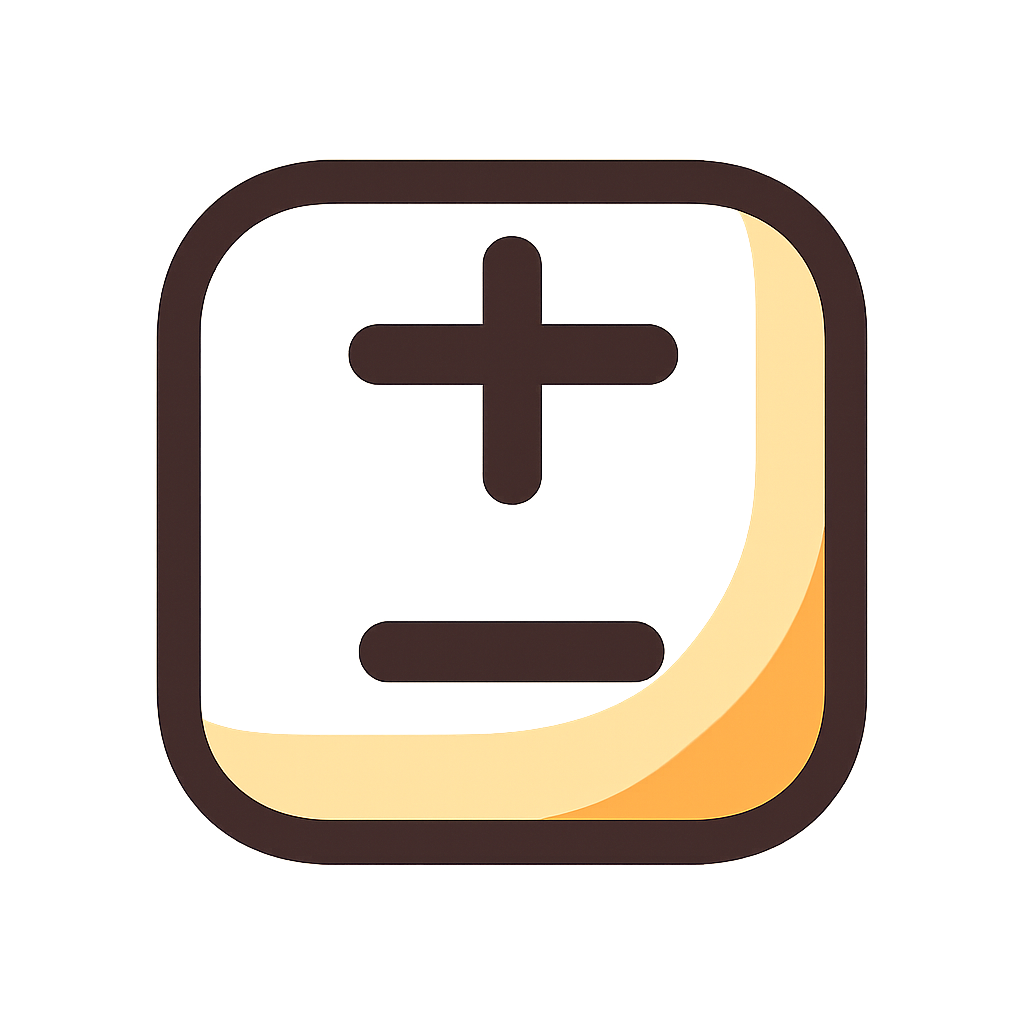
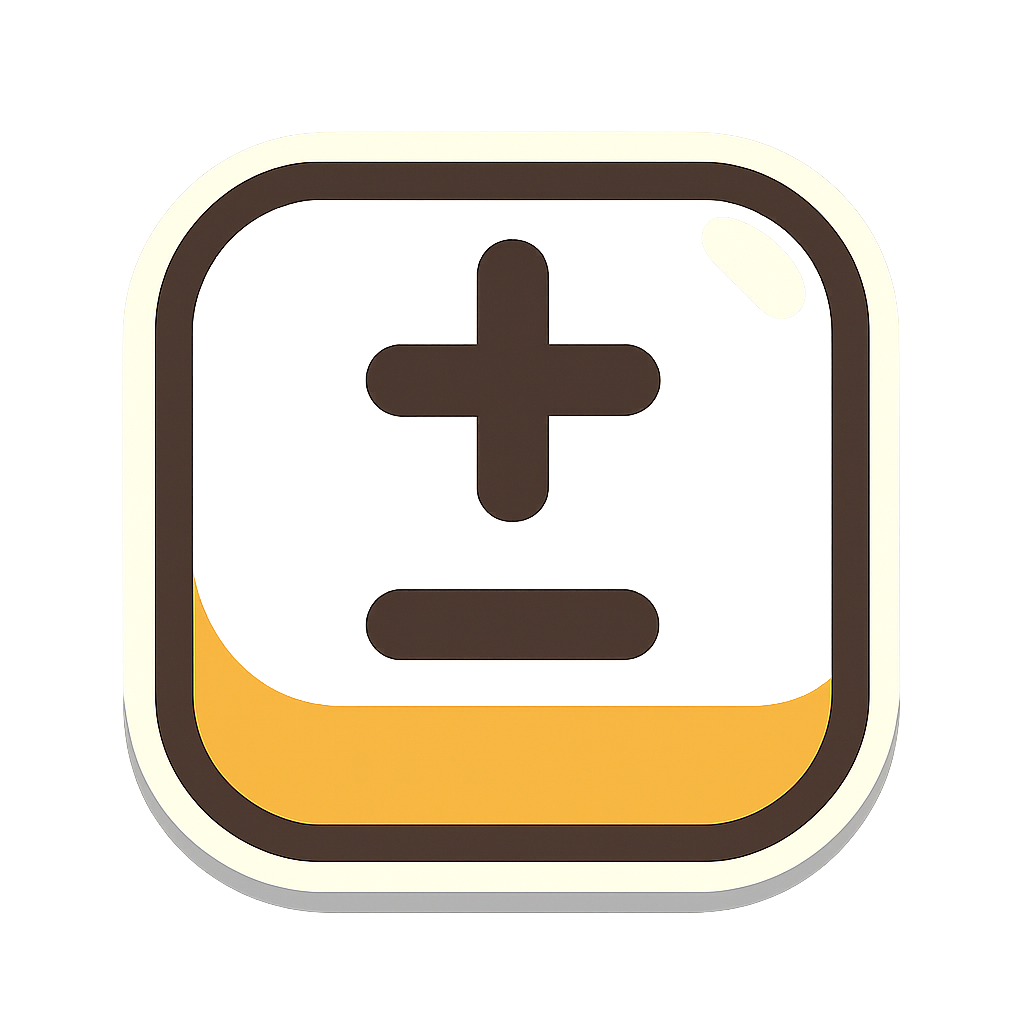
Ajuste com + simétrico, moeda pintada e o que faltava das cartas
- Ajuste: o traço tinha o + encostado na borda; agora + simétrico e −
  da mesma largura, no traço e na versão pintada.
- Moeda pintada (lisa, só aro e brilho) em todo <span class="moeda">, pela
  variável --moeda-img; sem ela fica o círculo dourado em CSS.
- Botões de carta da mesa usam o raio pintado no lugar do ⚡.
- A marca do Coringa nos dados e na corrente troca a estrela pelo chapéu
  de bobo em traço, como a carta.
- arte_icones.py: a borda de adesivo vira o campo "borda", que os itens de
  "sem_borda" (a moeda, pequena dentro de botões) não levam.

Claude-Session: https://claude.ai/code/session_014zYBtXiu9ctMemeSofycEH

diff --git a/dist/dice-duel.html b/dist/dice-duel.html
@@ -72,6 +72,8 @@ svg.ico { width: 18px; height: 18px; fill: none; stroke: currentColor; stroke-wi
 /* ícones pintados das cartas e símbolos (js/cartas_pintadas.js): mesmos lugares e tamanhos do traço */
 img.ico { width: 18px; height: 18px; flex: none; object-fit: contain; }
 .raio-pintado { width: 1.15em; height: 1.15em; vertical-align: -0.2em; }
+svg.ico.mini-ico { width: 1.25em; height: 1.25em; vertical-align: -0.25em; stroke-width: 2.2; }
+.moeda-pintada .moeda { background: var(--moeda-img) center / contain no-repeat; box-shadow: none; border-radius: 0; width: 1.15em; height: 1.15em; vertical-align: -0.2em; }
 .verso-pintado { width: 1.3em; height: 1.3em; vertical-align: -0.3em; margin: -2px 2px -2px -3px; }
 
 .app { max-width: 1240px; margin: 0 auto; padding: 12px 16px 28px; display: grid; gap: 12px; }
@@ -1371,12 +1373,13 @@ window.RETRATOS_PINTADOS = Object.assign(window.RETRATOS_PINTADOS || {}, {
   <script>
 /* gerado por tools/arte_icones.py a partir de arte/cartas.json: as versões pintadas (webp em data URI). Vazio = só vetor. */
 window.CARTAS_PINTADAS = Object.assign(window.CARTAS_PINTADAS || {}, {
[11 lines of base64/hex data omitted]
@@ -2115,7 +2118,7 @@ window.MOMENTOS_PINTADOS = Object.assign(window.MOMENTOS_PINTADOS || {}, {
     GRATIS, PRECO_CARTA, NIVEIS, PRESENTES, RATING_RIVAL, TETO_MOEDAS, BASE_MOEDAS, tituloDe, nivelDe, moedasDaVitoria } = R;
   const svg = d => `<svg class="ico" viewBox="0 0 24 24" aria-hidden="true">${d}</svg>`;
   const ICO_CARTA = {
-    ajuste: svg('<path d="M12 4v7M8.5 7.5h7M8.5 17h7"/><rect x="3" y="3" width="18" height="18" rx="4"/>'),
+    ajuste: svg('<path d="M12 5.5v6M9 8.5h6M9 16h6"/><rect x="3" y="3" width="18" height="18" rx="4"/>'),
     virar: svg('<path d="M4 12a8 8 0 0 1 14-5.3M20 12a8 8 0 0 1-14 5.3M18 3v4h-4M6 21v-4h4"/>'),
     rerrolar: svg('<path d="M3 12a9 9 0 1 0 3-6.7M3 4v4h4"/><circle cx="12" cy="12" r="1.5"/>'),
     pressa: svg('<path d="M5 6l6 6-6 6M13 6l6 6-6 6"/>'),
@@ -2133,6 +2136,10 @@ window.MOMENTOS_PINTADOS = Object.assign(window.MOMENTOS_PINTADOS || {}, {
   const imgPintada = (id, cls) => `<img class="${cls}" src="${pintada(id)}" alt="" aria-hidden="true" draggable="false">`;
   const RAIO = pintada('raio') ? imgPintada('raio', 'raio-pintado') : '⚡';
   const VERSO = pintada('verso') ? imgPintada('verso', 'verso-pintado') : '?';
+  // a marca do Coringa sobre o dado e na corrente: o chapéu de bobo em traço, do tamanho da letra
+  const CHAPEU = ICO_CARTA.coringa.replace('class="ico"', 'class="ico mini-ico"');
+  // a moeda pintada vale para todo <span class="moeda"> (o CSS usa a variável; sem ela, fica o círculo dourado)
+  if (pintada('moeda')) { document.documentElement.style.setProperty('--moeda-img', `url("${pintada('moeda')}")`); document.documentElement.classList.add('moeda-pintada'); }
   // os símbolos dos "Bons momentos" do fim da partida, pintados (js/momentos_pintados.js) quando existem
   const MOMENTO_ID = { '☾': 'virada', '★': 'sinfonia', '✿': 'harmonia', '✧': 'truque', '❀': 'salvou', '↺': 'esquiva', '✦': 'bloqueio', '♪': 'nota', '✪': 'recorde' };
   const srcMomento = c => (c === '☕' ? (window.RETRATOS_PINTADOS || {}).xicara : (window.MOMENTOS_PINTADOS || {})[MOMENTO_ID[c]]);
@@ -2623,7 +2630,7 @@ window.MOMENTOS_PINTADOS = Object.assign(window.MOMENTOS_PINTADOS || {}, {
       const k = CARTAS[c];
       let e = j.cartas[p][c];
       if (e === 'armada' && !meu && c !== 'espelho') e = 'pronta';
-      const raio = k.pontos ? '<span class="raio" aria-label="carta de pontos">⚡</span>' : '';
+      const raio = k.pontos ? `<span class="raio" aria-label="carta de pontos">${RAIO}</span>` : '';
       const rotulo = e === 'armada' ? (k.tipo === 'efeito' ? 'virada' : 'armada') : '';
       html += `<button class="carta ${k.tipo} ${e}" data-carta="${c}" data-dono="${p}" aria-label="${k.nome}: ${rotulo || e}">${k.ico}<span class="cnome">${k.nome}</span>${raio}${rotulo ? `<small>${rotulo}</small>` : ''}</button>`;
     }
@@ -2645,7 +2652,7 @@ window.MOMENTOS_PINTADOS = Object.assign(window.MOMENTOS_PINTADOS || {}, {
       if (i < cor.length) {
         const r = i > 0 ? rels(cor[i - 1], cor[i]) : [];
         const frenteCls = !fx && i === cor.length - 1 ? ' frente' : '';
-        slots += `<div class="slot${frenteCls}" data-slot="${i}">${r.length ? elo(r) : (i > 0 ? '<span class="elo r-coringa" title="Coringa">★</span>' : '')}${dadoHTML(cor[i], skinDe(p))}</div>`;
+        slots += `<div class="slot${frenteCls}" data-slot="${i}">${r.length ? elo(r) : (i > 0 ? `<span class="elo r-coringa" title="Coringa">${CHAPEU}</span>` : '')}${dadoHTML(cor[i], skinDe(p))}</div>`;
       } else if (i === cor.length && !fx) {
         const fs = facesQueEncaixam(cor);
         slots += `<div class="slot prox" title="Faces que sincronizam com a frente">${cor.length && !j.coringa[p] ? `<span class="prox-faces">${fs.join(' ')}</span>` : '<svg class="ico prox-livre" viewBox="0 0 24 24" aria-label="qualquer dado começa"><path d="M12 6v12M6 12h12"/></svg>'}</div>`;
@@ -2688,7 +2695,7 @@ window.MOMENTOS_PINTADOS = Object.assign(window.MOMENTOS_PINTADOS || {}, {
         if (!dicas) tags = '';
         else if (!eu.length) tags = `<span class="tag inicio">Começa</span>`;
         else if (r.length) tags = `<span class="tag ${r.length > 1 ? 'duplo' : 'r-' + r[0]}">${r.map(k => `<span class="tnome">${REL[k].simb}</span><span class="tnome curta"> ${REL[k].nome}</span>`).join(' ')}</span>`;
-        else if (cabe) tags = `<span class="tag r-coringa">★<span class="tnome curta"> Coringa</span></span>`;
+        else if (cabe) tags = `<span class="tag r-coringa">${CHAPEU}<span class="tnome curta"> Coringa</span></span>`;
         else if (salvo) tags = `<span class="tag inicio">Bolso</span>`;
         else tags = `<span class="tag rompe">✕<span class="tnome curta"> Rompe</span></span>`;
         if (contra && dicas) tags = `<span class="tag previa">vira ${vv}</span>` + tags;

diff --git a/js/cartas_pintadas.js b/js/cartas_pintadas.js
@@ -1,11 +1,12 @@
 /* gerado por tools/arte_icones.py a partir de arte/cartas.json: as versões pintadas (webp em data URI). Vazio = só vetor. */
 window.CARTAS_PINTADAS = Object.assign(window.CARTAS_PINTADAS || {}, {
[11 lines of base64/hex data omitted]

diff --git a/js/jogo.js b/js/jogo.js
@@ -12,7 +12,7 @@
     GRATIS, PRECO_CARTA, NIVEIS, PRESENTES, RATING_RIVAL, TETO_MOEDAS, BASE_MOEDAS, tituloDe, nivelDe, moedasDaVitoria } = R;
   const svg = d => `<svg class="ico" viewBox="0 0 24 24" aria-hidden="true">${d}</svg>`;
   const ICO_CARTA = {
-    ajuste: svg('<path d="M12 4v7M8.5 7.5h7M8.5 17h7"/><rect x="3" y="3" width="18" height="18" rx="4"/>'),
+    ajuste: svg('<path d="M12 5.5v6M9 8.5h6M9 16h6"/><rect x="3" y="3" width="18" height="18" rx="4"/>'),
     virar: svg('<path d="M4 12a8 8 0 0 1 14-5.3M20 12a8 8 0 0 1-14 5.3M18 3v4h-4M6 21v-4h4"/>'),
     rerrolar: svg('<path d="M3 12a9 9 0 1 0 3-6.7M3 4v4h4"/><circle cx="12" cy="12" r="1.5"/>'),
     pressa: svg('<path d="M5 6l6 6-6 6M13 6l6 6-6 6"/>'),
@@ -30,6 +30,10 @@
   const imgPintada = (id, cls) => `<img class="${cls}" src="${pintada(id)}" alt="" aria-hidden="true" draggable="false">`;
   const RAIO = pintada('raio') ? imgPintada('raio', 'raio-pintado') : '⚡';
   const VERSO = pintada('verso') ? imgPintada('verso', 'verso-pintado') : '?';
+  // a marca do Coringa sobre o dado e na corrente: o chapéu de bobo em traço, do tamanho da letra
+  const CHAPEU = ICO_CARTA.coringa.replace('class="ico"', 'class="ico mini-ico"');
+  // a moeda pintada vale para todo <span class="moeda"> (o CSS usa a variável; sem ela, fica o círculo dourado)
+  if (pintada('moeda')) { document.documentElement.style.setProperty('--moeda-img', `url("${pintada('moeda')}")`); document.documentElement.classList.add('moeda-pintada'); }
   // os símbolos dos "Bons momentos" do fim da partida, pintados (js/momentos_pintados.js) quando existem
   const MOMENTO_ID = { '☾': 'virada', '★': 'sinfonia', '✿': 'harmonia', '✧': 'truque', '❀': 'salvou', '↺': 'esquiva', '✦': 'bloqueio', '♪': 'nota', '✪': 'recorde' };
   const srcMomento = c => (c === '☕' ? (window.RETRATOS_PINTADOS || {}).xicara : (window.MOMENTOS_PINTADOS || {})[MOMENTO_ID[c]]);
@@ -520,7 +524,7 @@
       const k = CARTAS[c];
       let e = j.cartas[p][c];
       if (e === 'armada' && !meu && c !== 'espelho') e = 'pronta';
-      const raio = k.pontos ? '<span class="raio" aria-label="carta de pontos">⚡</span>' : '';
+      const raio = k.pontos ? `<span class="raio" aria-label="carta de pontos">${RAIO}</span>` : '';
       const rotulo = e === 'armada' ? (k.tipo === 'efeito' ? 'virada' : 'armada') : '';
       html += `<button class="carta ${k.tipo} ${e}" data-carta="${c}" data-dono="${p}" aria-label="${k.nome}: ${rotulo || e}">${k.ico}<span class="cnome">${k.nome}</span>${raio}${rotulo ? `<small>${rotulo}</small>` : ''}</button>`;
     }
@@ -542,7 +546,7 @@
       if (i < cor.length) {
         const r = i > 0 ? rels(cor[i - 1], cor[i]) : [];
         const frenteCls = !fx && i === cor.length - 1 ? ' frente' : '';
-        slots += `<div class="slot${frenteCls}" data-slot="${i}">${r.length ? elo(r) : (i > 0 ? '<span class="elo r-coringa" title="Coringa">★</span>' : '')}${dadoHTML(cor[i], skinDe(p))}</div>`;
+        slots += `<div class="slot${frenteCls}" data-slot="${i}">${r.length ? elo(r) : (i > 0 ? `<span class="elo r-coringa" title="Coringa">${CHAPEU}</span>` : '')}${dadoHTML(cor[i], skinDe(p))}</div>`;
       } else if (i === cor.length && !fx) {
         const fs = facesQueEncaixam(cor);
         slots += `<div class="slot prox" title="Faces que sincronizam com a frente">${cor.length && !j.coringa[p] ? `<span class="prox-faces">${fs.join(' ')}</span>` : '<svg class="ico prox-livre" viewBox="0 0 24 24" aria-label="qualquer dado começa"><path d="M12 6v12M6 12h12"/></svg>'}</div>`;
@@ -585,7 +589,7 @@
         if (!dicas) tags = '';
         else if (!eu.length) tags = `<span class="tag inicio">Começa</span>`;
         else if (r.length) tags = `<span class="tag ${r.length > 1 ? 'duplo' : 'r-' + r[0]}">${r.map(k => `<span class="tnome">${REL[k].simb}</span><span class="tnome curta"> ${REL[k].nome}</span>`).join(' ')}</span>`;
-        else if (cabe) tags = `<span class="tag r-coringa">★<span class="tnome curta"> Coringa</span></span>`;
+        else if (cabe) tags = `<span class="tag r-coringa">${CHAPEU}<span class="tnome curta"> Coringa</span></span>`;
         else if (salvo) tags = `<span class="tag inicio">Bolso</span>`;
         else tags = `<span class="tag rompe">✕<span class="tnome curta"> Rompe</span></span>`;
         if (contra && dicas) tags = `<span class="tag previa">vira ${vv}</span>` + tags;

diff --git a/tools/folha_cartas.js b/tools/folha_cartas.js
@@ -22,7 +22,8 @@ const momentos = Object.entries(JSON.parse(fonte.match(/const MOMENTO_ID = (\{.*
 const linhaMomento = ([c, id]) => `<tr><th>${id}</th><td class="g"><span style="font-size:72px">${c}</span></td><td class="g">${img(window.MOMENTOS_PINTADOS[id], 96)}</td>
   <td colspan="4"><span style="font-size:18px">${c}</span>${img(window.MOMENTOS_PINTADOS[id], 28)}</td></tr>`;
 
-const svg = (d, t) => `<svg viewBox="0 0 24 24" width="${t}" height="${t}" fill="none" stroke="#c4843a" stroke-width="2" stroke-linecap="round" stroke-linejoin="round">${d}</svg>`;
+// sem traço (a moeda é um círculo em CSS): mostra o círculo dourado do jogo
+const svg = (d, t) => d === undefined ? `<span style="display:inline-block;width:${t}px;height:${t}px;border-radius:50%;background:radial-gradient(circle at 35% 30%,#fff3b0,#f2c14e 45%,#c8901c);box-shadow:inset 0 0 0 1.5px #a8740f"></span>` : `<svg viewBox="0 0 24 24" width="${t}" height="${t}" fill="none" stroke="#c4843a" stroke-width="2" stroke-linecap="round" stroke-linejoin="round">${d}</svg>`;
 const img = (s, t) => s ? `<img src="${s}" width="${t}" height="${t}">` : `<span class="nada" style="width:${t}px;height:${t}px"></span>`;
 const linha = id => `<tr><th>${id}</th>
   <td class="g">${svg(traco[id], 96)}</td><td class="g">${img(pintado[id], 96)}</td>
@@ -35,7 +36,7 @@ const html = `<!doctype html><html><head><style>
   h1 { font-size: 20px; margin: 0 0 10px; } thead th { text-align: center; font-size: 12px; color: #7a6560; }
 </style></head><body><h1>Ícones das cartas: traço × pintado</h1><table>
   <thead><tr><th></th><th>traço</th><th>pintado</th>${TAMANHOS.map(t => `<th>${t} px<br>traço · pintado</th>`).join('')}</tr></thead>
-  <tbody>${Object.keys(traco).map(linha).join('')}</tbody></table>
+  <tbody>${[...new Set([...Object.keys(traco), ...Object.keys(pintado)])].map(linha).join('')}</tbody></table>
   <h1 style="margin-top:24px">Bons momentos (fim da partida): texto × pintado</h1><table>
   <thead><tr><th></th><th>texto</th><th>pintado</th><th colspan="4">no jogo (18 px · 28 px)</th></tr></thead>
   <tbody>${momentos.map(linhaMomento).join('')}</tbody></table></body></html>`;

diff --git a/css/estilo.css b/css/estilo.css
@@ -57,6 +57,8 @@ svg.ico { width: 18px; height: 18px; fill: none; stroke: currentColor; stroke-wi
 /* ícones pintados das cartas e símbolos (js/cartas_pintadas.js): mesmos lugares e tamanhos do traço */
 img.ico { width: 18px; height: 18px; flex: none; object-fit: contain; }
 .raio-pintado { width: 1.15em; height: 1.15em; vertical-align: -0.2em; }
+svg.ico.mini-ico { width: 1.25em; height: 1.25em; vertical-align: -0.25em; stroke-width: 2.2; }
+.moeda-pintada .moeda { background: var(--moeda-img) center / contain no-repeat; box-shadow: none; border-radius: 0; width: 1.15em; height: 1.15em; vertical-align: -0.2em; }
 .verso-pintado { width: 1.3em; height: 1.3em; vertical-align: -0.3em; margin: -2px 2px -2px -3px; }
 
 .app { max-width: 1240px; margin: 0 auto; padding: 12px 16px 28px; display: grid; gap: 12px; }

diff --git a/tools/arte_icones.py b/tools/arte_icones.py
@@ -64,6 +64,8 @@ def prompt_de(cfg, id_):
         partes.append(cfg["fundo_opaco_texto"])
     else:
         partes.append(cfg["estilo"])
+    if cfg.get("borda") and id_ not in cfg.get("sem_borda", []):
+        partes.append(cfg["borda"])     # a borda de adesivo, menos nos que vão pequenos dentro de botões (a moeda)
     if texto.startswith("SPECIAL."):
         partes.append(cfg["especial"])
         texto = texto[len("SPECIAL."):].strip()
